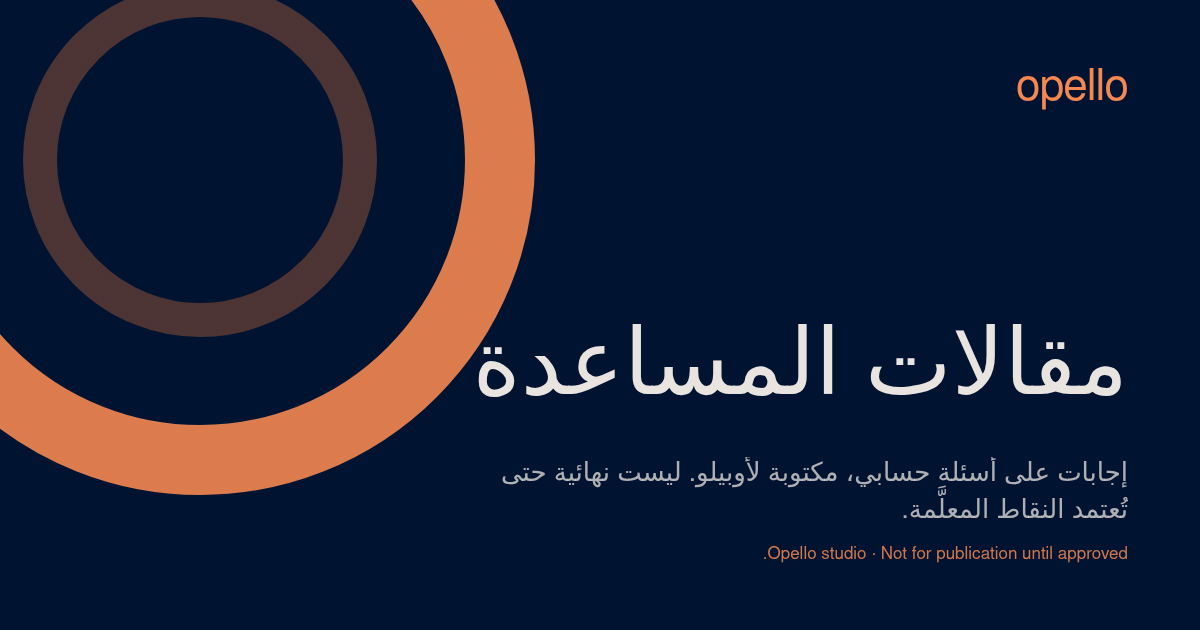
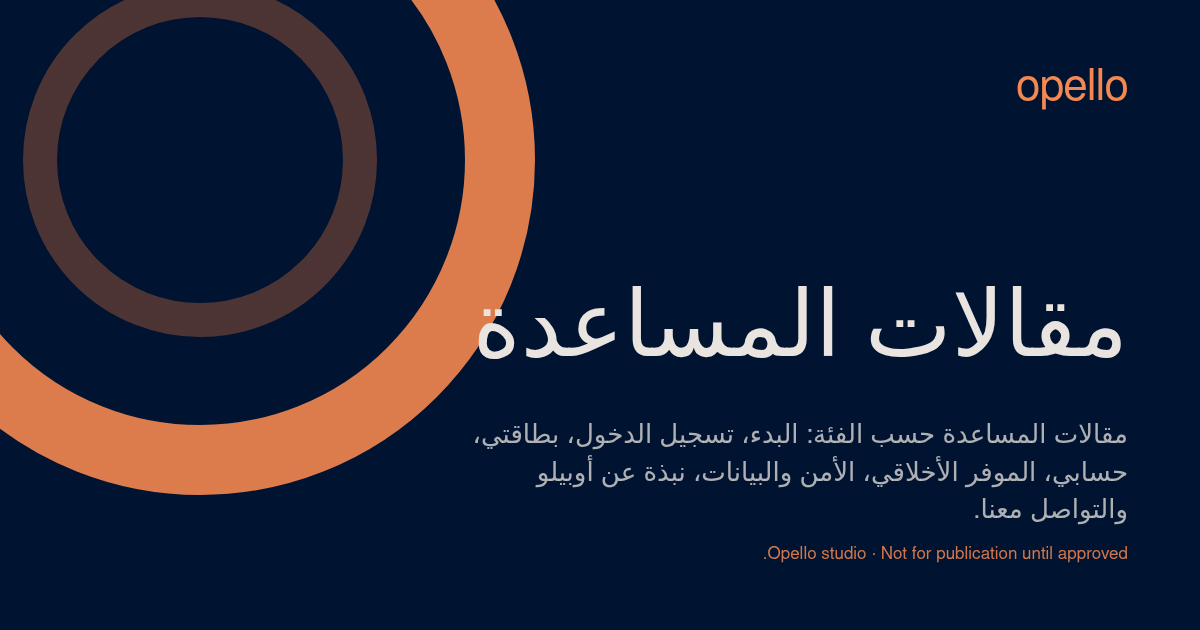
Studio head fixes: valid og:locale (ar_AR to ar_AE) and ar/help-articles meta description
- og:locale carried the invalid 'ar_AR' code on every Arabic page (og:locale
  and og:locale:alternate); Facebook/Open Graph expect a valid ISO code, so
  'ar_AE' replaces it across the five head templates (en/ar/tr homes and
  both sub-page templates). English and Turkish values unchanged.
- ar/help-articles carried help-my-account's metaDescription verbatim
  (copy-paste slip from the 2026-11-21 12:09 run), so its meta/og description
  described the wrong page and duplicated the ar/help-my-account snippet.
  Replaced with its own category-list description mirroring the EN/TR twins.
- og card for ar/help-articles regenerated (og-cards-check 159/159).
No visible copy, vendor names or product claims changed.

🪂 Generated with [Skydive](https://skydive.com)

Changed region(s): [[0.4008, 0.4524, 0.9558, 0.6333], [0.4008, 0.6635, 0.9558, 0.8444], [0.6475, 0.4524, 0.7092, 0.5127]]

diff --git a/src/lib/studio/pages-translated.ts b/src/lib/studio/pages-translated.ts
@@ -1063,7 +1063,7 @@ export const pagesByLang: Record<Lang, StudioPage[]> = {
       title: "مقالات المساعدة",
       kicker: "المساعدة",
       lede: "المقالات في كل فئة من فئات المساعدة. العناوين مأخوذة من مركز مساعدة ألجبرا. إجابات البدء وتسجيل الدخول وبطاقتي وحسابي والموفر الأخلاقي والأمن والبيانات ونبذة عن أوبيلو والتواصل معنا مكتوبة.",
-      metaDescription: "إجابات على أسئلة حسابي، مكتوبة لأوبيلو. ليست نهائية حتى تُعتمد النقاط المعلَّمة.", // shorter than the lede for search snippets; lede untouched
+      metaDescription: "مقالات المساعدة حسب الفئة: البدء، تسجيل الدخول، بطاقتي، حسابي، الموفر الأخلاقي، الأمن والبيانات، نبذة عن أوبيلو والتواصل معنا.", // shorter than the lede for search snippets; lede untouched — was a copy-paste of help-my-account's description (caught 2026-11-22 cycle)
       source: "placeholder",
       sections: [
         {

diff --git a/src/lib/studio/home/HomeLang.svelte b/src/lib/studio/home/HomeLang.svelte
@@ -64,9 +64,9 @@ focusMainOnNavigate();
 	<meta property="og:image:height" content="630" />
 	<meta property="og:image:alt" content={`Opello studio: ${homeCopy[lang].heroUnlock} ${homeCopy[lang].heroLife}`} />
 	<meta property="og:site_name" content="Opello" />
-	<meta property="og:locale" content={lang === 'ar' ? 'ar_AR' : 'tr_TR'} />
+	<meta property="og:locale" content={lang === 'ar' ? 'ar_AE' : 'tr_TR'} />
 	<meta property="og:locale:alternate" content="en_GB" />
-	<meta property="og:locale:alternate" content={lang === 'ar' ? 'tr_TR' : 'ar_AR'} />
+	<meta property="og:locale:alternate" content={lang === 'ar' ? 'tr_TR' : 'ar_AE'} />
 	<!-- Twitter card so links shared on X render the same preview card. -->
 	<meta name="twitter:card" content="summary_large_image" />
 	<meta name="twitter:image" content={`${STUDIO_ORIGIN}/studio/og/${lang}/home.png`} />

diff --git a/src/routes/studio/[lang]/[slug]/+page.svelte b/src/routes/studio/[lang]/[slug]/+page.svelte
@@ -93,9 +93,9 @@ focusMainOnNavigate();
 	<meta property="og:image:height" content="630" />
 	<meta property="og:image:alt" content={`Opello studio: ${p.title}`} />
 	<meta property="og:site_name" content="Opello" />
-	<meta property="og:locale" content={lang === 'ar' ? 'ar_AR' : 'tr_TR'} />
+	<meta property="og:locale" content={lang === 'ar' ? 'ar_AE' : 'tr_TR'} />
 	<meta property="og:locale:alternate" content="en_GB" />
-	<meta property="og:locale:alternate" content={lang === 'ar' ? 'tr_TR' : 'ar_AR'} />
+	<meta property="og:locale:alternate" content={lang === 'ar' ? 'tr_TR' : 'ar_AE'} />
 	<!-- Twitter card so links shared on X render the same preview card. -->
 	<meta name="twitter:card" content="summary_large_image" />
 	<meta name="twitter:title" content={p.title} />

diff --git a/src/routes/studio/+page.svelte b/src/routes/studio/+page.svelte
@@ -37,7 +37,7 @@ focusMainOnNavigate();
 	<meta property="og:image:alt" content="Opello studio: Unlock your life." />
 	<meta property="og:site_name" content="Opello" />
 	<meta property="og:locale" content="en_GB" />
-	<meta property="og:locale:alternate" content="ar_AR" />
+	<meta property="og:locale:alternate" content="ar_AE" />
 	<meta property="og:locale:alternate" content="tr_TR" />
 	<!-- Twitter card so links shared on X render the same preview card. -->
 	<meta name="twitter:card" content="summary_large_image" />

diff --git a/src/lib/studio/StudioError.svelte b/src/lib/studio/StudioError.svelte
@@ -65,7 +65,7 @@
 	<meta property="og:image:height" content="630" />
 	<meta property="og:image:alt" content="Opello" />
 	<meta property="og:locale" content="en_GB" />
-	<meta property="og:locale:alternate" content="ar_AR" />
+	<meta property="og:locale:alternate" content="ar_AE" />
 	<meta property="og:locale:alternate" content="tr_TR" />
 	<meta name="twitter:card" content="summary_large_image" />
 	<meta name="twitter:title" content={(notFound ? t.notFoundKicker : t.serverKicker) + ' · Opello studio (unlisted)'} />

diff --git a/src/routes/studio/[slug]/+page.svelte b/src/routes/studio/[slug]/+page.svelte
@@ -93,7 +93,7 @@ focusMainOnNavigate();
 	<meta property="og:image:alt" content={`Opello studio: ${p.title}`} />
 	<meta property="og:site_name" content="Opello" />
 	<meta property="og:locale" content="en_GB" />
-	<meta property="og:locale:alternate" content="ar_AR" />
+	<meta property="og:locale:alternate" content="ar_AE" />
 	<meta property="og:locale:alternate" content="tr_TR" />
 	<!-- Twitter card so links shared on X render the same preview card. -->
 	<meta name="twitter:card" content="summary_large_image" />
